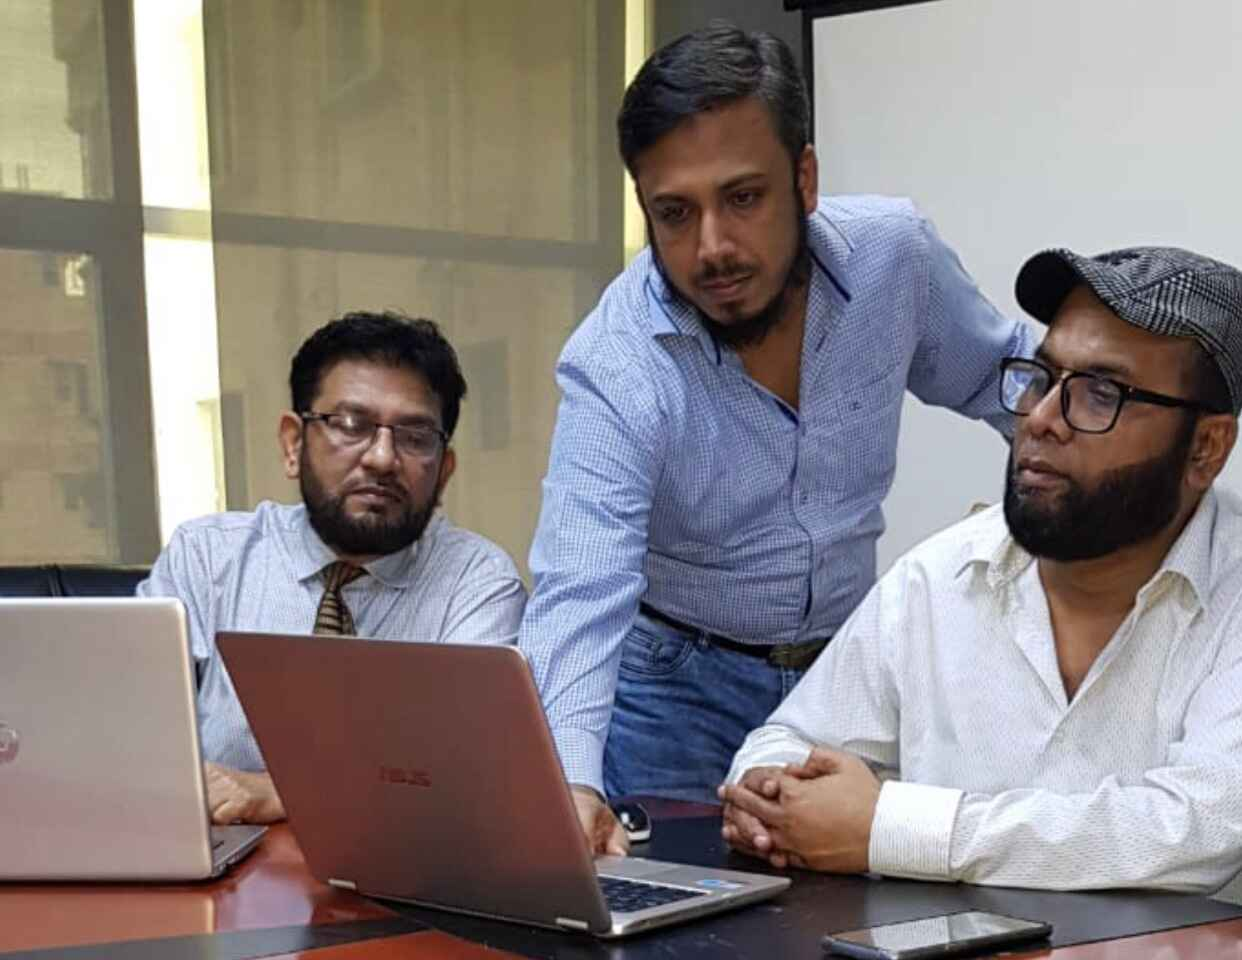
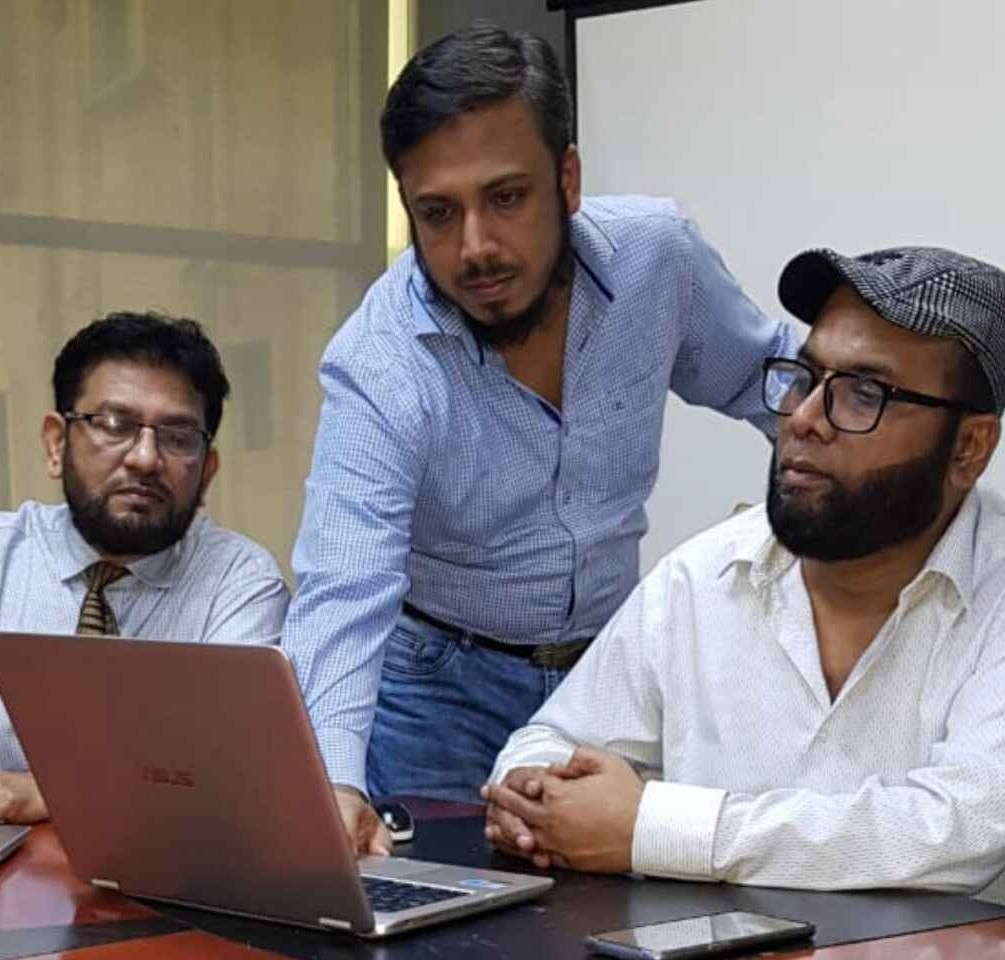
our story button changed and picture saved

diff --git a/src/Shared/Story.js b/src/Shared/Story.js
@@ -48,14 +48,21 @@ const Story = () => {
             <div className='flex justify-end'>
           
             <Link  to={pdf} target='_blank' rel='noreferrer'
-              class="group relative flex select-none items-center gap-3 overflow-hidden rounded-lg bg-[#000066] py-3 px-7 pr-[72px] text-center align-middle text-sm font-bold uppercase text-white shadow-md shadow-light-blue-500/20 transition-all hover:shadow-lg active:opacity-[0.85] disabled:pointer-events-none disabled:opacity-50 disabled:shadow-nonegroup relative flex select-none items-center gap-3 overflow-hidden rounded-lg bg-gradient-to-tr from-light-blue-900 to-sky-900 py-2 px-5 pr-[72px] text-center align-middle text-sm font-bold uppercase text-white shadow-md shadow-light-indigo-500/20 transition-all hover:shadow-lg hover:shadow-light-blue-500/40 active:opacity-[0.85] disabled:pointer-events-none disabled:opacity-50 disabled:shadow-none"
-              type="button"
-              data-ripple-light="true"
+              className="group "
+              
             >
-              View Corporate Profile
-              <span className="absolute right-0 grid h-full w-12 place-items-center bg-[#00004d] transition-colors group-hover:bg-[#000066]">
-                <img src={arrow}></img>
-              </span>
+              
+              <button className='mb-12 lg:mb-0 text-white lg:ms-5 md:ms-5'>
+                  <div className='flex items-center'>
+                    <h1 className='text-md font-bold'>View Corporate Profile
+                    <div className='bg-white h-[2px] w-0 group-hover:w-full transition-all duration-500'></div>
+                    </h1>
+                  
+                    <img className='w-12' src={arrow}></img>
+                  </div>
+                  
+                 
+            </button> 
             </Link>
             
             </div>
